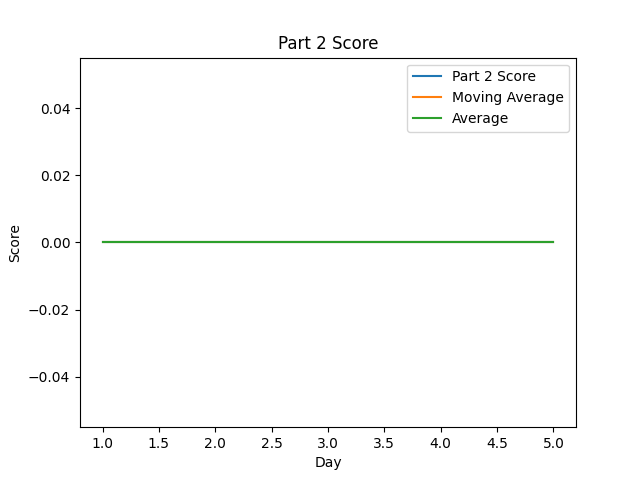
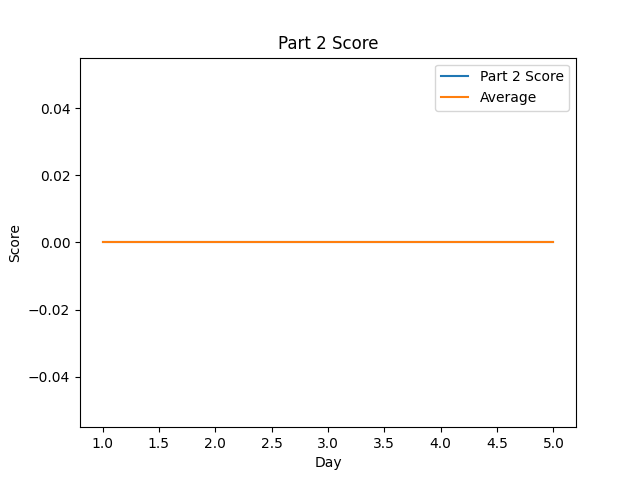
Remove moving average when it's not generatable

Changed region(s): [[0.625, 0.125, 0.875, 0.2812], [0.1562, 0.5, 0.8438, 0.5312]]

diff --git a/scripts/generate_stats.py b/scripts/generate_stats.py
@@ -70,6 +70,94 @@ def _get_second_count(data: Tuple[Dict[int, timedelta], Dict[int, timedelta]]) -
     return time_a, time_b
 
 
+def _get_stat_column(results: Dict[Tuple[Union[int, Any], int], Dict], column: str) \
+        -> (Dict[int, Any], Dict[int, Any]):
+    col_a = OrderedDict()
+    col_b = OrderedDict()
+    max_day_finished = 0
+    for entry in results:
+        if entry[1] > max_day_finished:
+            max_day_finished = entry[1]
+        if 'a' in results[entry].keys():
+            col_a[entry[1]] = results[entry]['a'][column]
+        if 'b' in results[entry].keys():
+            col_b[entry[1]] = results[entry]['b'][column]
+    max_day_finished += 1
+
+    for i in range(1, max_day_finished):
+        if not (i in col_a):
+            if column == "time":
+                col_a[i] = timedelta(seconds=-1)
+            else:
+                col_a[i] = -1
+        if not (i in col_b):
+            if column == "time":
+                col_b[i] = timedelta(seconds=-1)
+            else:
+                col_b[i] = -1
+    return col_a, col_b
+
+
+def _average(data: list) -> float:
+    sum_of_values = 0
+    count = 0
+    for value in data:
+        if value != -1:
+            sum_of_values += value
+            count += 1
+    return 0 if count == 0 else sum_of_values / count
+
+
+def _generate_standard_average(data: list) -> list:
+    return [_average(data[0:day]) for day in range(1, len(data) + 1)]
+
+
+def _generate_moving_average(data: list) -> list:
+    return [_average(data[day - 5 if day >= 5 else 0:day]) for day in range(1, len(data) + 1)]
+
+
+def _generate_graph(data: Dict, output_file="output.png", y_axis="", x_axis="Day", title=""):
+    days, output_data = zip(*sorted(data.items()))
+    plot.plot(days, output_data)
+    if len(days) > 6:
+        plot.plot(days, _generate_moving_average([v for v in data.values()]))
+        plot.plot(days, _generate_standard_average([v for v in data.values()]))
+        plot.legend([title, 'Moving Average', 'Average'])
+    else:
+        plot.plot(days, _generate_standard_average([v for v in data.values()]))
+        plot.legend([title, 'Average'])
+    plot.title(title)
+    plot.xlabel(x_axis)
+    plot.ylabel(y_axis)
+
+    open(output_file, "w").close()  # create the file if it doesn't exist
+    plot.savefig(output_file)
+    plot.close()
+
+
+def _parse_duration(s: str) -> timedelta:
+    """Parse a string like 01:11:16 (hours, minutes, seconds) into a timedelta"""
+    if s == ">24h":
+        return timedelta(hours=24)
+    h, m, s = [int(x) for x in s.split(":")]
+    return timedelta(hours=h, minutes=m, seconds=s)
+
+
+def _get_token() -> str:
+    if len(sys.argv) == 1:
+        print("Enter a session cookie")
+        sys.exit(1)
+    else:
+        token = ""
+        try:
+            with io.open(sys.argv[1], encoding="utf-8") as f:
+                token = f.read().strip()
+        except (IOError, OSError) as err:
+            if err.errno != errno.ENOENT:
+                raise
+        return token
+
+
 def generate_graphs(results: Dict[Tuple[Union[int, Any], int], OrderedDict]) -> None:
     if not os.path.exists(OUTPUT_DIR):
         os.makedirs(OUTPUT_DIR)
@@ -144,104 +232,10 @@ def print_table(results: Dict[Tuple[Union[int, Any], int], OrderedDict]) -> None
                      ("Avg", int(total_time[0] / 3600), (int(total_time[0]) / 60) % 60, total_time[0] % 60,
                       total_rank[0], total_score[0], int(total_time[1] / 3600), (int(total_time[1]) / 60) % 60,
                       total_time[1] % 60, total_rank[1], total_score[1])
-    output_string += NEW_LINE_REPLACER
-    print(output_string)
+    return output_string + NEW_LINE_REPLACER
 
 
-def _generate_graph(data: Dict, output_file="output.png", y_axis="", x_axis="Day", title=""):
-    days, output_data = zip(*sorted(data.items()))
-    plot.plot(days, output_data)
-    plot.plot(days, _generate_moving_average([v for v in data.values()]))
-    plot.plot(days, _generate_standard_average([v for v in data.values()]))
-    plot.legend([title, 'Moving Average', 'Average'])
-    plot.title(title)
-    plot.xlabel(x_axis)
-    plot.ylabel(y_axis)
-
-    open(output_file, "w").close()  # create the file if it doesn't exist
-    plot.savefig(output_file)
-    plot.close()
-
-
-def _generate_standard_average(data: list) -> list:
-    average_list = []
-    day = 0
-    for _ in data:
-        day += 1
-        average_list.append(_average(data[0:day]))
-    return average_list
-
-
-def _generate_moving_average(data: list) -> list:
-    moving_average_list = []
-    day = 0
-    for _ in data:
-        day += 1
-        moving_average_list.append(_average(data[day - 5 if day >= 5 else 0:day]))
-    return moving_average_list
-
-
-def _average(data: list) -> float:
-    sum_of_values = 0
-    count = 0
-    for value in data:
-        if value != -1:
-            sum_of_values += value
-            count += 1
-    return 0 if count == 0 else sum_of_values / count
-
-
-def _get_stat_column(results: Dict[Tuple[Union[int, Any], int], Dict], column: str) \
-        -> (Dict[int, Any], Dict[int, Any]):
-    col_a = OrderedDict()
-    col_b = OrderedDict()
-    max_day_finished = 0
-    for entry in results:
-        if entry[1] > max_day_finished:
-            max_day_finished = entry[1]
-        if 'a' in results[entry].keys():
-            col_a[entry[1]] = results[entry]['a'][column]
-        if 'b' in results[entry].keys():
-            col_b[entry[1]] = results[entry]['b'][column]
-    max_day_finished += 1
-
-    for i in range(1, max_day_finished):
-        if not (i in col_a):
-            if column == "time":
-                col_a[i] = timedelta(seconds=-1)
-            else:
-                col_a[i] = -1
-        if not (i in col_b):
-            if column == "time":
-                col_b[i] = timedelta(seconds=-1)
-            else:
-                col_b[i] = -1
-    return col_a, col_b
-
-
-def _parse_duration(s: str) -> timedelta:
-    """Parse a string like 01:11:16 (hours, minutes, seconds) into a timedelta"""
-    if s == ">24h":
-        return timedelta(hours=24)
-    h, m, s = [int(x) for x in s.split(":")]
-    return timedelta(hours=h, minutes=m, seconds=s)
-
-
-def _get_token() -> str:
-    if len(sys.argv) == 1:
-        print("Enter a session cookie")
-        sys.exit(1)
-    else:
-        token = ""
-        try:
-            with io.open(sys.argv[1], encoding="utf-8") as f:
-                token = f.read().strip()
-        except (IOError, OSError) as err:
-            if err.errno != errno.ENOENT:
-                raise
-        return token
-
-
-resultsDict = get_stats(cookie={"session": _get_token()}, years={int(sys.argv[2])})
-generate_graphs(resultsDict)
-print_table(resultsDict)
+if __name__ == '__main__':
+    resultsDict = get_stats(cookie={"session": _get_token()}, years={int(sys.argv[2])})
+    generate_graphs(resultsDict)
+    print(get_table(resultsDict))
